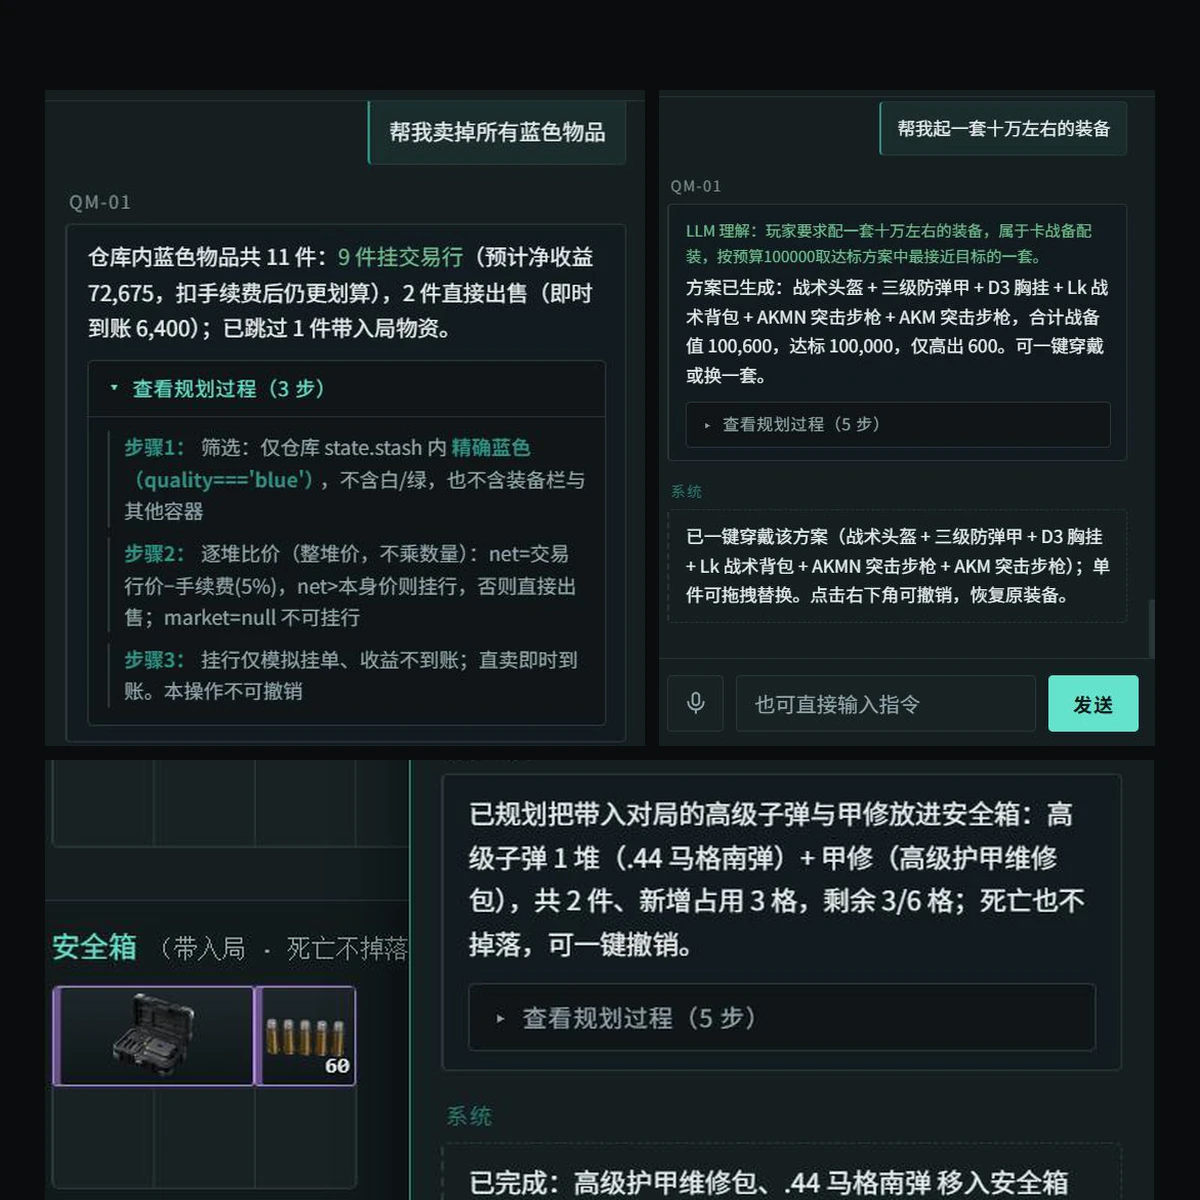
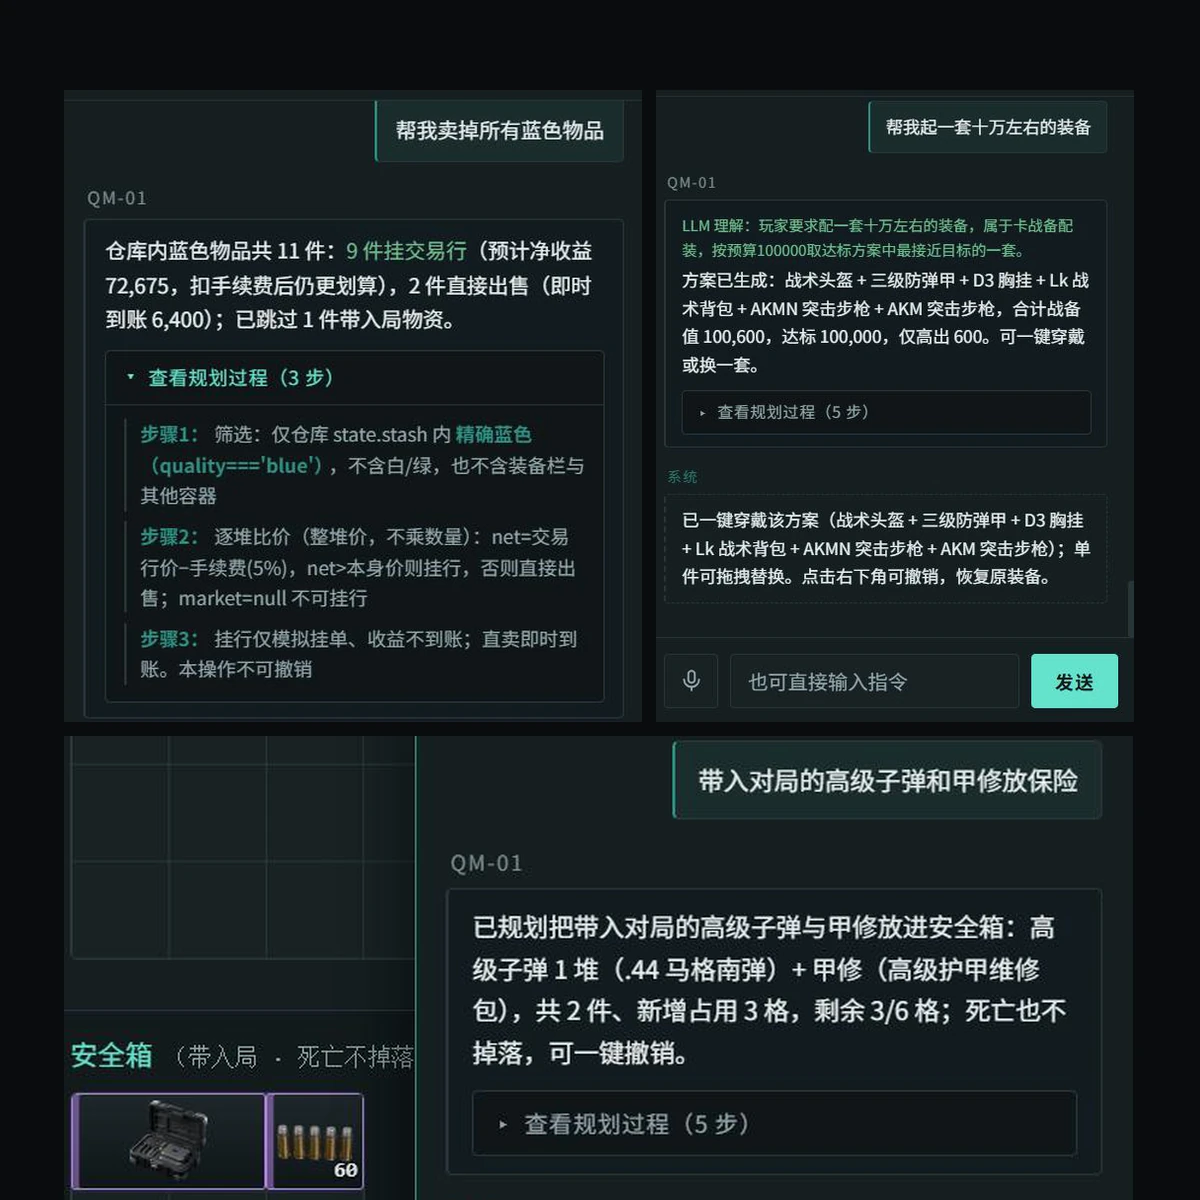
QM-01: fix card 03 crop, align card text with screenshots

diff --git a/index.html b/index.html
@@ -2324,17 +2324,17 @@ const PROJECTS = {
     stats:[{num:'8 类意图',label:'INTENT TYPES'},{num:'60 / 60',label:'INTENT RECOGNIZED'},{num:'9 类异常处理',label:'EXCEPTION TYPES'}],
     hero:'assets/projects/qm01/qm01_hero.mp4',
     hero_poster:'assets/projects/qm01/qm01_hero_poster.webp',
-    hero_alt:'QM-01 网页原型演示录屏：战前仓库界面，左侧干员与装备，右侧仓库网格，助手给出出售方案清单',
+    hero_alt:'QM-01 网页原型演示录屏：战前仓库界面，左侧干员与装备，右侧仓库网格，助手面板里展开着配装的规划过程',
     filter_title:'说出目标，它出方案，卖不卖你来定',
     filter_intro:'按“概念—对话—AI Coding—演示”组织：01 两个痛点故事板，02 从一句话到执行确认，03 三条核心指令，04 九类异常与容错，05 与编码 Agent 协作的过程，06、07 语言、规则与布局的 Debug 记录，08 运行中的网页原型。',
     filters:['CONCEPT','DIALOGUE','AI CODING','DEMO'],
     cards:[
       {src:'assets/projects/qm01/qm01_card_01.webp',tag:'CONCEPT',title:'Two Pains',info:'概念｜仓库爆满与低成本配装',desc:'两个场景各三格分镜。场景一，仓库爆满、队友催促：小 A 满载而归却放不下，「好不容易带出来的，怎么没地方放了」；队友语音催他快准备下一把；他只能逐个处理，「这个要不要留？算了，先卖几个腾地方」，看、犹豫、出售、确认反复循环，迟迟开不了局。场景二，想省钱、快速出发：他找值钱的卖掉换装备，边比价边配，既怕误卖又担心着急卖错；时间不够，只看总值不看细节，最后胡乱抓几件，想带的不一定带得上。痛点分别是：收纳被空间限制打断、时间压力叠加去留决策、重复操作打断组队节奏；以及钱不够用、缺资源、配装取舍费时、低预算易配错。',alt:'六格痛点分镜：上排是仓库爆满、队友催促的三格（放不下、被催、逐个查看出售），下排是想省钱快速出发的三格（卖值钱的换装备、边比价边配、胡乱抓几件），每格下方有说明和痛点标注'},
-      {src:'assets/projects/qm01/qm01_card_02.webp',tag:'DIALOGUE',title:'Goal to Execution',info:'对话｜从一句话到执行',desc:'完整链路是：表达目标 → 解析 → 规则校验 → 方案预览 → 确认 → 执行。左上是助手入口，输入框旁放着三条快捷指令；右上是出售清单，列出每件物品的单价、实付价和总计，底部标出售后预计收入，红字提醒「确认后将永久卖出」，不点「确认出售」就不会动库存；左下是配装后的结果卡，执行后可以一键撤销；右下是模型接入设置，可以填 Base URL、API Key 和模型 ID。规则是：出售不可撤销，必须玩家确认；配装可撤销。原型截图录制时接入了模型，所以回复开头带有「LLM 理解」字样，未接入模型时这一步由本地规则引擎完成。',alt:'四张原型截图：带三条快捷指令的助手入口、列出价格和预计收入的出售清单、带撤销按钮的配装结果、模型接入设置面板',size:'narrow'},
-      {src:'assets/projects/qm01/qm01_card_03.webp',tag:'DIALOGUE',title:'Three Core Commands',info:'对话｜三条核心指令',desc:'指令一，「帮我把所有蓝色物品卖掉」：助手给出规划过程，比价后决定 9 件挂交易行、2 件直接出售，并列出出售后的变化。指令二，「帮我配一套 5 万左右能出发的装备」：生成 SSh-94 头盔、LK 战术背包、AKM 突击步枪，合计约 50,000，还有 0 枪出、0 入，配完可以直接进入对局。指令三，「带入对局的高级子弹和甲修改放保险」：助手把对局要带的高级子弹和护甲修放进安全箱。三条指令分别对应出售、起装和转移三类目标。',alt:'三张对话截图：卖蓝色物品的规划过程与出售结果、5 万左右配装的装备清单、安全箱里高级子弹和护甲修的对话',size:'narrow'},
-      {src:'assets/projects/qm01/qm01_card_04.webp',tag:'DIALOGUE',title:'Exception & Fault Tolerance',info:'对话｜九类异常与容错',desc:'九类异常各写了触发、处理和保护：01 意图或参数不明确，追问必要字段；02 已理解但功能不支持，直接说暂不支持，不混同于没听懂；03 模型连接或请求失败，提示失败，本地规则可继续用，不伪造回复；04 空间不足无法放回；05 非法拖放与旋转，松手后回到原位；06 配装目标无法满足，不给假达标方案；07 出售范围与物资保护；08 预览后状态发生变化，提交前重新校验；09 重复提交与不可撤销。下面两条是原型的实际回复：身上没有符合条件的物品时，说明原因，不去动仓库；出售绿色物品时，随身携带的物品受保护。原则是：听不清就追问，做不了就说明，条件不满足不强行执行；出售由玩家确认，失败不留半截修改。',alt:'九类异常状态的 3×3 说明网格与底部的容错原则，下方两张对话截图：没有符合条件物品时的说明，出售绿色物品时对随身物品的保护'},
-      {src:'assets/projects/qm01/qm01_card_05.webp',tag:'AI CODING',title:'Coding with an Agent',info:'AI Coding｜与编码 Agent 协作',desc:'原型分四个阶段演进，每一步都先定规则再动代码。开发阶段的做法是用规则、数据边界、异常态和验收用例去约束编码 Agent：小步修改、回归测试、人工验收，交付可运行的网页原型；物品图标和场景素材按需用图像生成辅助制作，文字、按钮和状态都由真实界面承载。结构分三层：交互层是 HTML / CSS / JavaScript，负责网格、拖拽、方案卡片、确认弹窗和执行反馈；理解层把目标与条件转成结构化操作计划；执行层用本地规则做计算与合法性检查，通过后再更新原型状态。',alt:'四个演进阶段的流程条、开发阶段 AI Coding + Prompt 工程与视觉素材辅助两个说明框，以及交互层、理解层、执行层的三层结构表'},
-      {src:'assets/projects/qm01/qm01_card_06.webp',tag:'AI CODING',title:'Debug: Language',info:'AI Coding｜Debug：语言',desc:'两条关于说法的记录。「紫色」与「紫色以上」：玩家说紫色时，到底只卖紫色，还是紫色及以上都要卖，初版口径不清，改成按明确条件执行。「给 AKM 装子弹」：枪的口径要对应到具体弹药，不能只按名字找，否则会把不匹配的子弹装进去。每条记录都按问题表现、定位与判断、处理记录来写。',alt:'两张 Debug 记录卡：紫色与紫色以上的口径、给 AKM 装对应口径的子弹',size:'narrow'},
+      {src:'assets/projects/qm01/qm01_card_02.webp',tag:'DIALOGUE',title:'Goal to Execution',info:'对话｜从一句话到执行',desc:'完整链路是：表达目标 → 解析 → 规则校验 → 方案预览 → 确认 → 执行。左上是助手入口，输入框旁放着三条快捷指令；右上是出售清单，标着「SELL BLUE · 不可撤销」，每件物品列出本身价、交易行价、手续费和每堆净收益，并注明挂行还是直接出售；底部汇总直接出售 2 堆 6,400、挂交易行 9 堆 69,065，总预计收益 75,465，红字提醒确认后不可撤销、挂单未成交不代表已到账，不点「确认出售」就不会动库存；左下是配装结果，方案已一键穿戴，单击可拖拽替换，点右下角可撤销；右下是模型接入设置，可以填 Base URL、API Key 和模型 ID。规则是：出售不可撤销，必须玩家确认；配装可撤销。原型截图录制时接入了模型，所以回复开头带有「LLM 理解」字样，未接入模型时这一步由本地规则引擎完成。',alt:'四张原型截图：带三条快捷指令的助手入口、列出价格和预计收入的出售清单、带撤销按钮的配装结果、模型接入设置面板',size:'narrow'},
+      {src:'assets/projects/qm01/qm01_card_03.webp',tag:'DIALOGUE',title:'Three Core Commands',info:'对话｜三条核心指令',desc:'三条指令对应出售、起装和转移三类目标。指令一，「帮我卖掉所有蓝色物品」：仓库内蓝色物品共 11 件，9 件挂交易行（预计净收益 72,675，扣手续费后仍更划算），2 件直接出售（即时到账 6,400），已跳过 1 件带入局物资。规划过程分三步：只筛仓库内精确蓝色，不含白绿，也不含装备栏与其他容器；逐堆比价，挂行净价高于本身价则挂行，否则直接出售；挂行只模拟挂单、收益不到账，直接卖即时到账，本操作不可撤销。指令二，「帮我起一套十万左右的装备」：按预算 100,000 取达标方案里最接近目标的一套，战术头盔、三级防弹甲、D3 胸挂、Lk 战术背包、AKMN 突击步枪、AKM 突击步枪，合计战备价值 100,600，仅高出 600，可一键穿戴或换一套；穿戴后单击可拖拽替换，点右下角可撤销。指令三，「带入对局的高级子弹和甲修放保险」：高级子弹 1 排（.44 马格南弹）加甲修（高级护甲维修包），共 2 件、新增占用 3 格，剩余 3/6 格；死亡也不掉落，可一键撤销。',alt:'三张原型截图：卖蓝色物品的对话与三步规划过程、十万左右配装的装备清单与一键穿戴结果、高级子弹和甲修放进安全箱的对话及左侧安全箱',size:'narrow'},
+      {src:'assets/projects/qm01/qm01_card_04.webp',tag:'DIALOGUE',title:'Exception & Fault Tolerance',info:'对话｜九类异常与容错',desc:'九类异常各写了触发、处理和保护：01 意图或参数不明确，追问必要字段；02 已理解但功能不支持，直接说暂不支持，不混同于没听懂；03 模型连接或请求失败，提示失败，本地规则可继续用，不伪造回复；04 空间不足无法放回；05 非法拖放与旋转，松手后回到原位；06 配装目标无法满足，不给假达标方案；07 出售范围与物资保护；08 预览后状态发生变化，提交前重新校验；09 重复提交与不可撤销。下面两条是原型里两种保护的实际回复。一条是玩家说「带入对局的高级子弹和甲修放保险」，身上没有符合条件的物品，助手说明「身上没有符合条件的高级子弹（紫/金弹药）和护甲维修包」，并交代取物只限随身的口袋、已装备背包和胸挂，不会去仓库拿。另一条是「帮我卖掉所有绿色物品」，助手按「该品质及以下」理解，分类出 18 件，6 件挂交易行、12 件直接出售，AKMN 突击步枪、MP5 冲锋枪、三级防弹甲、金狮子雕像等高品质物资自动排除；界面标出「不可逆操作确认」，执行后 6 秒内可撤销。原则是：听不清就追问，做不了就说明，条件不满足不强行执行；出售由玩家确认，失败不留半截修改。',alt:'九类异常状态的 3×3 说明网格与底部的容错原则，下方两张对话截图：没有符合条件物品时的说明，出售绿色物品时的不可逆操作确认'},
+      {src:'assets/projects/qm01/qm01_card_05.webp',tag:'AI CODING',title:'Coding with an Agent',info:'AI Coding｜与编码 Agent 协作',desc:'原型分四个阶段演进。阶段 01 建立演示闭环：先用本地规则和标准脚本跑通装箱、配装、清包与确认交互，优先解决白屏、加载和状态初始化。阶段 02 补齐真实约束：加入多格占用、武器口径、品质语义和三幕流程，纠正「看起来能操作，但规则不贴合场景」。阶段 03 升级视觉与手动交互：形成角色装备、战前容器与仓库的主界面，加入拖拽、装备槽、全屏背景、人物立绘和独立武器层。阶段 04 收敛联动与局部调整范围：处理空槽遮挡、武器方向与换装显示，把图标和位置调整限定到具体选择器，避免共享样式连带影响其他区域。开发阶段的做法是用规则、数据边界、异常态和验收用例约束编码 Agent：小步修改、回归测试、人工验收，交付可运行的网页原型；物品图标和场景素材按需用图像生成辅助，文字、按钮和状态由真实界面承载。结构分三层。意图层：标准表达由本地规则覆盖，联网模型只扩展口语理解，输出 intent、params 等结构化信息，语音是输入入口，不替代文字入口。约束层：结合原型状态核对库存、占格、口径、预算与余额，模型给的方案仍要经过规则检查，不直接修改库存。表现层：渲染装备、容器与仓库，appearance.js 处理人物与手持素材，character.css 控制角色面板视觉，conversation.css 控制对话样式。',alt:'四个演进阶段：建立演示闭环、补齐真实约束、升级视觉与手动交互、收敛联动与局部调整范围；开发阶段 AI Coding + Prompt 工程与视觉素材辅助两个说明框；意图层、约束层、表现层的三层结构'},
+      {src:'assets/projects/qm01/qm01_card_06.webp',tag:'AI CODING',title:'Debug: Language',info:'AI Coding｜Debug：语言',desc:'两条关于说法的记录，每条按问题表现、定位与判断、处理记录来写。记录 04，「紫色」与「紫色以上」混淆：指定紫色物品时，筛选结果混入金色物品；原因是精确品质与最低品质被当作同一个筛选条件；处理是拆成 exactQuality 与 minQuality，裸说颜色按精确匹配，「以上」按下限匹配。记录 06，按武器装弹却选中全部弹药：「把 AKM 的子弹装进安全箱」没能排除其他口径；原因是筛选只有弹药类别，没有武器与口径的映射约束；处理是增加武器与口径的映射，AKM 按 7.62×39 精确筛选，再校验容器容量。',alt:'两张 Debug 记录卡：「紫色」与「紫色以上」混淆、按武器装弹却选中全部弹药',size:'narrow'},
       {src:'assets/projects/qm01/qm01_card_07.webp',tag:'AI CODING',title:'Debug: Rules & Layout',info:'AI Coding｜Debug：规则与布局',desc:'记录 05：所有物品按单格计算。问题是步枪、护甲与杂物占同样空间，整理结果缺少资源约束；初版数据没有表达多格尺寸和放置规则。处理是补充物品宽高与装箱算法，把容量判断从「件数」改为「空间占用」。记录 07：仓库物品挤成一条线。问题是仓库内容集中在顶部，无法表达跨格占用；历史上把原因归于绝对定位与百分比高度的循环依赖。处理是改用 CSS Grid 跨格布局，让物品占位与网格结构一致。',alt:'两张 Debug 记录卡：物品按占格而非件数计算、仓库改用 CSS Grid 布局',size:'narrow'},
       {src:'assets/projects/qm01/qm01_card_08.webp',tag:'DEMO',title:'Running Prototype',info:'演示｜运行中的网页原型',desc:'网页原型可以直接操作：六个容器之间拖拽和旋转物品，双击装备穿上，交易行可以挂售，首次进入有新手引导。上面是主界面：左侧干员与装备栏，中间携带容器和安全箱，右侧仓库网格，上方显示当前估值。下面是交易行和一帧演示录屏。页面右上角是助手入口，点开就能输入目标。',alt:'原型主界面全图（干员、装备、容器、仓库），下方是交易行截图和演示录屏的一帧'}
     ]
